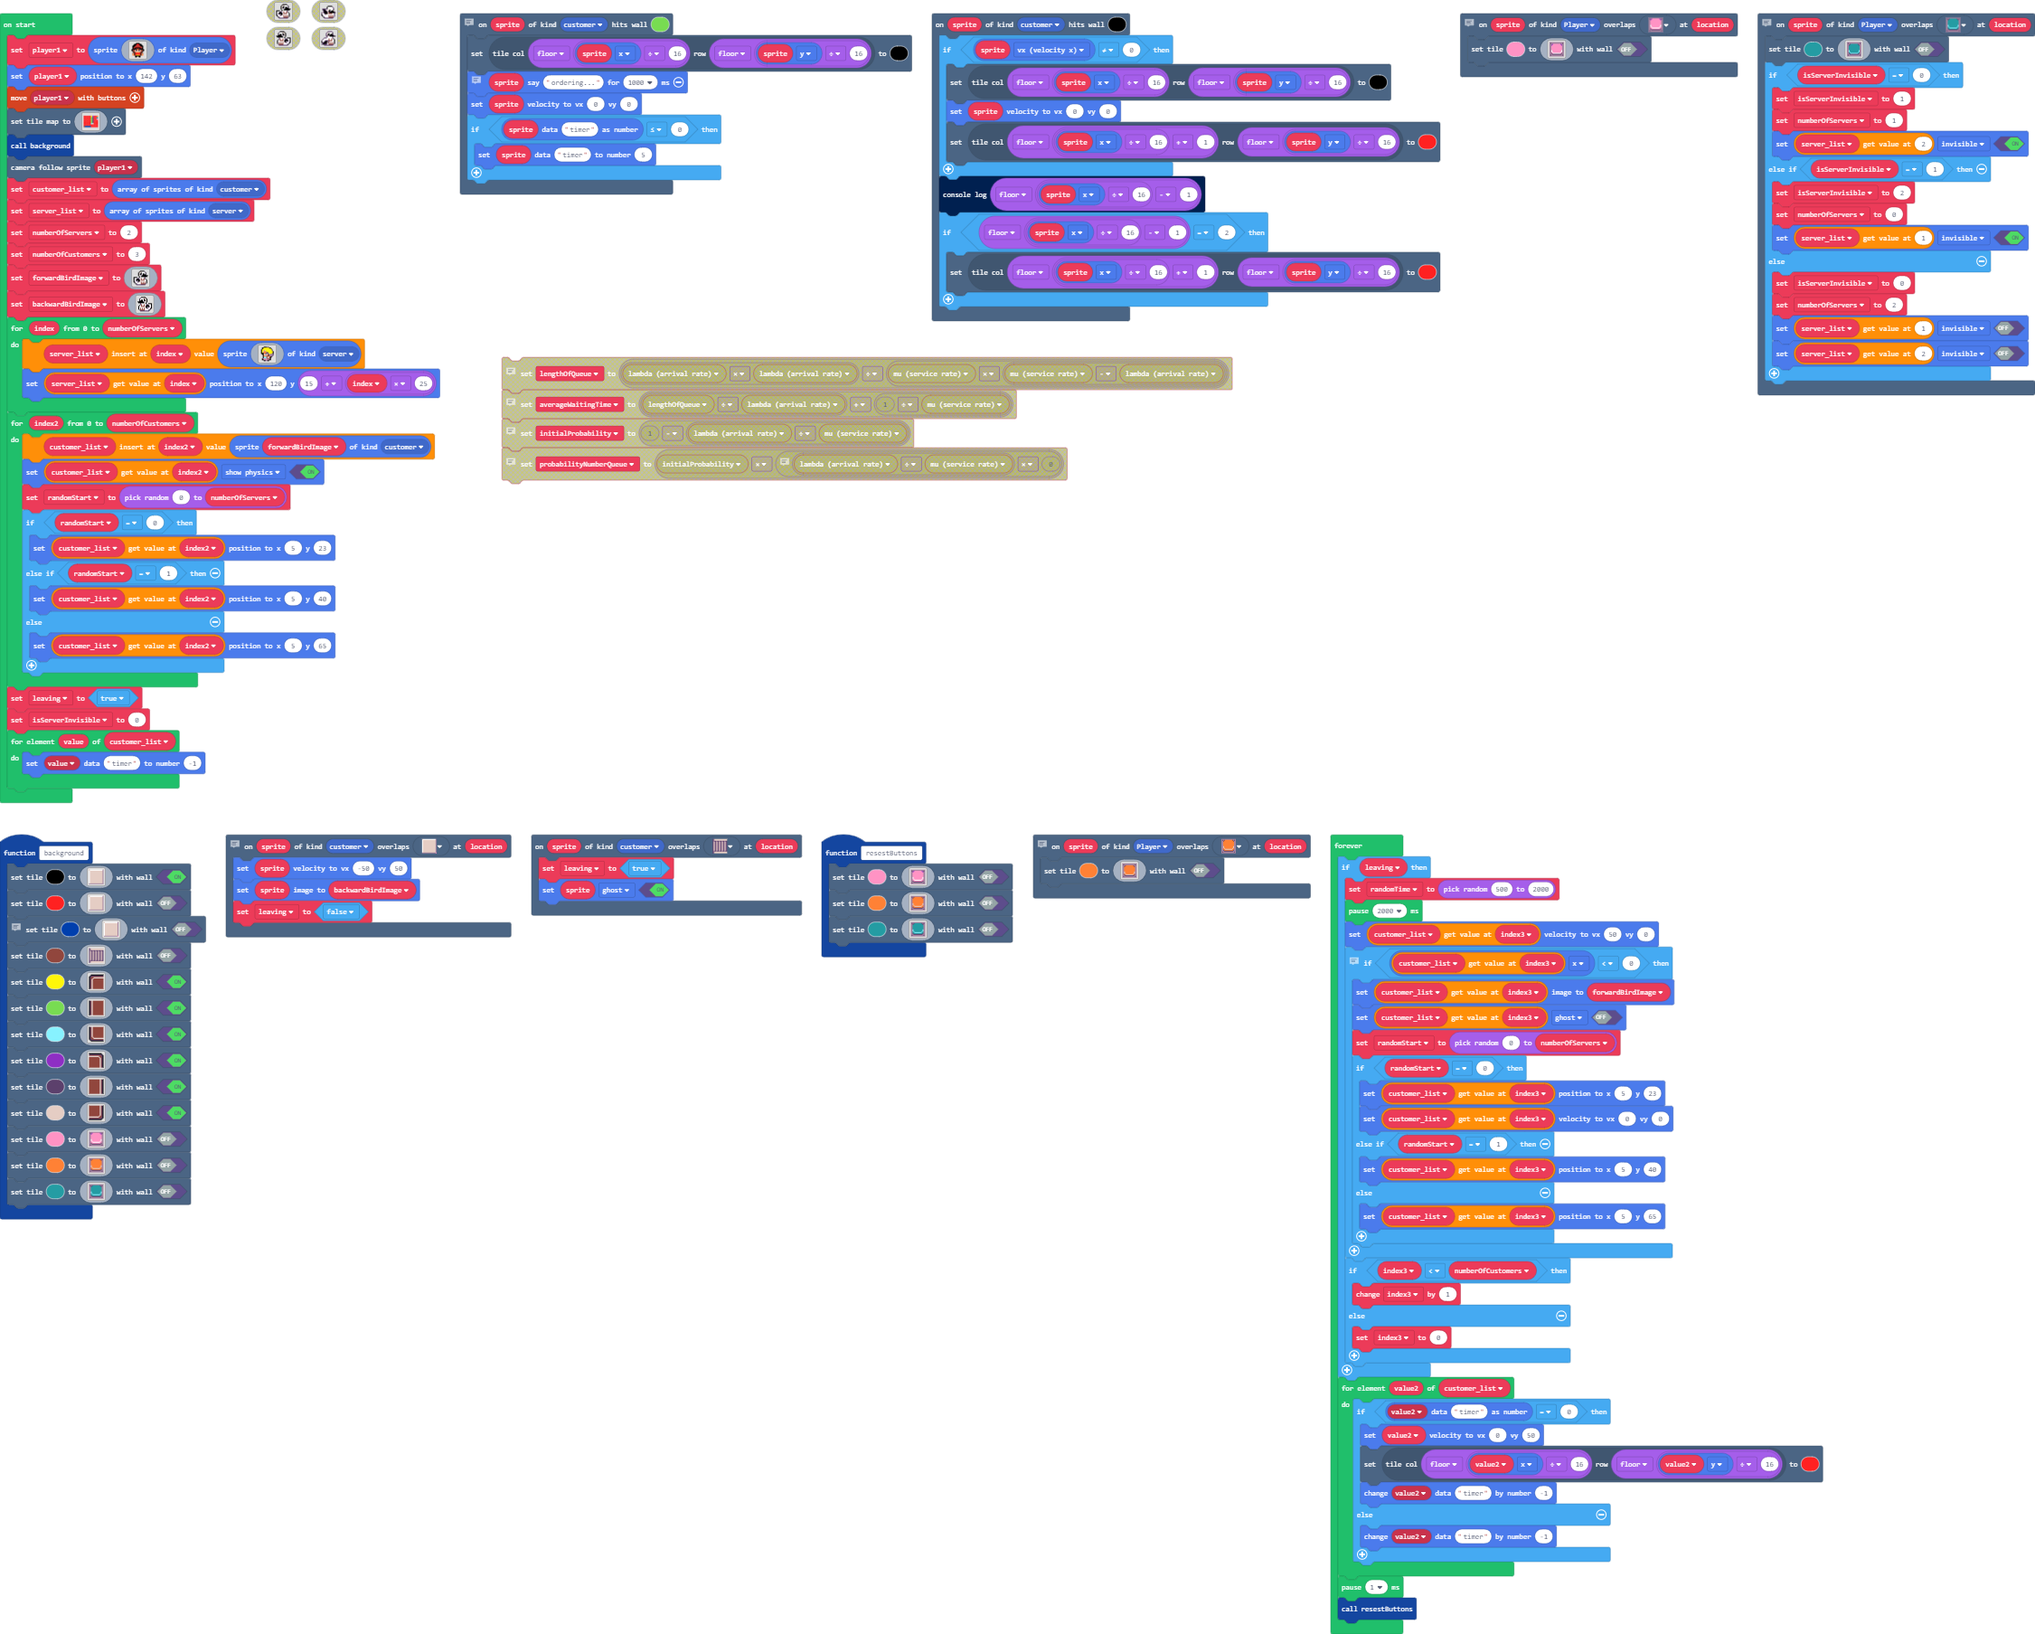
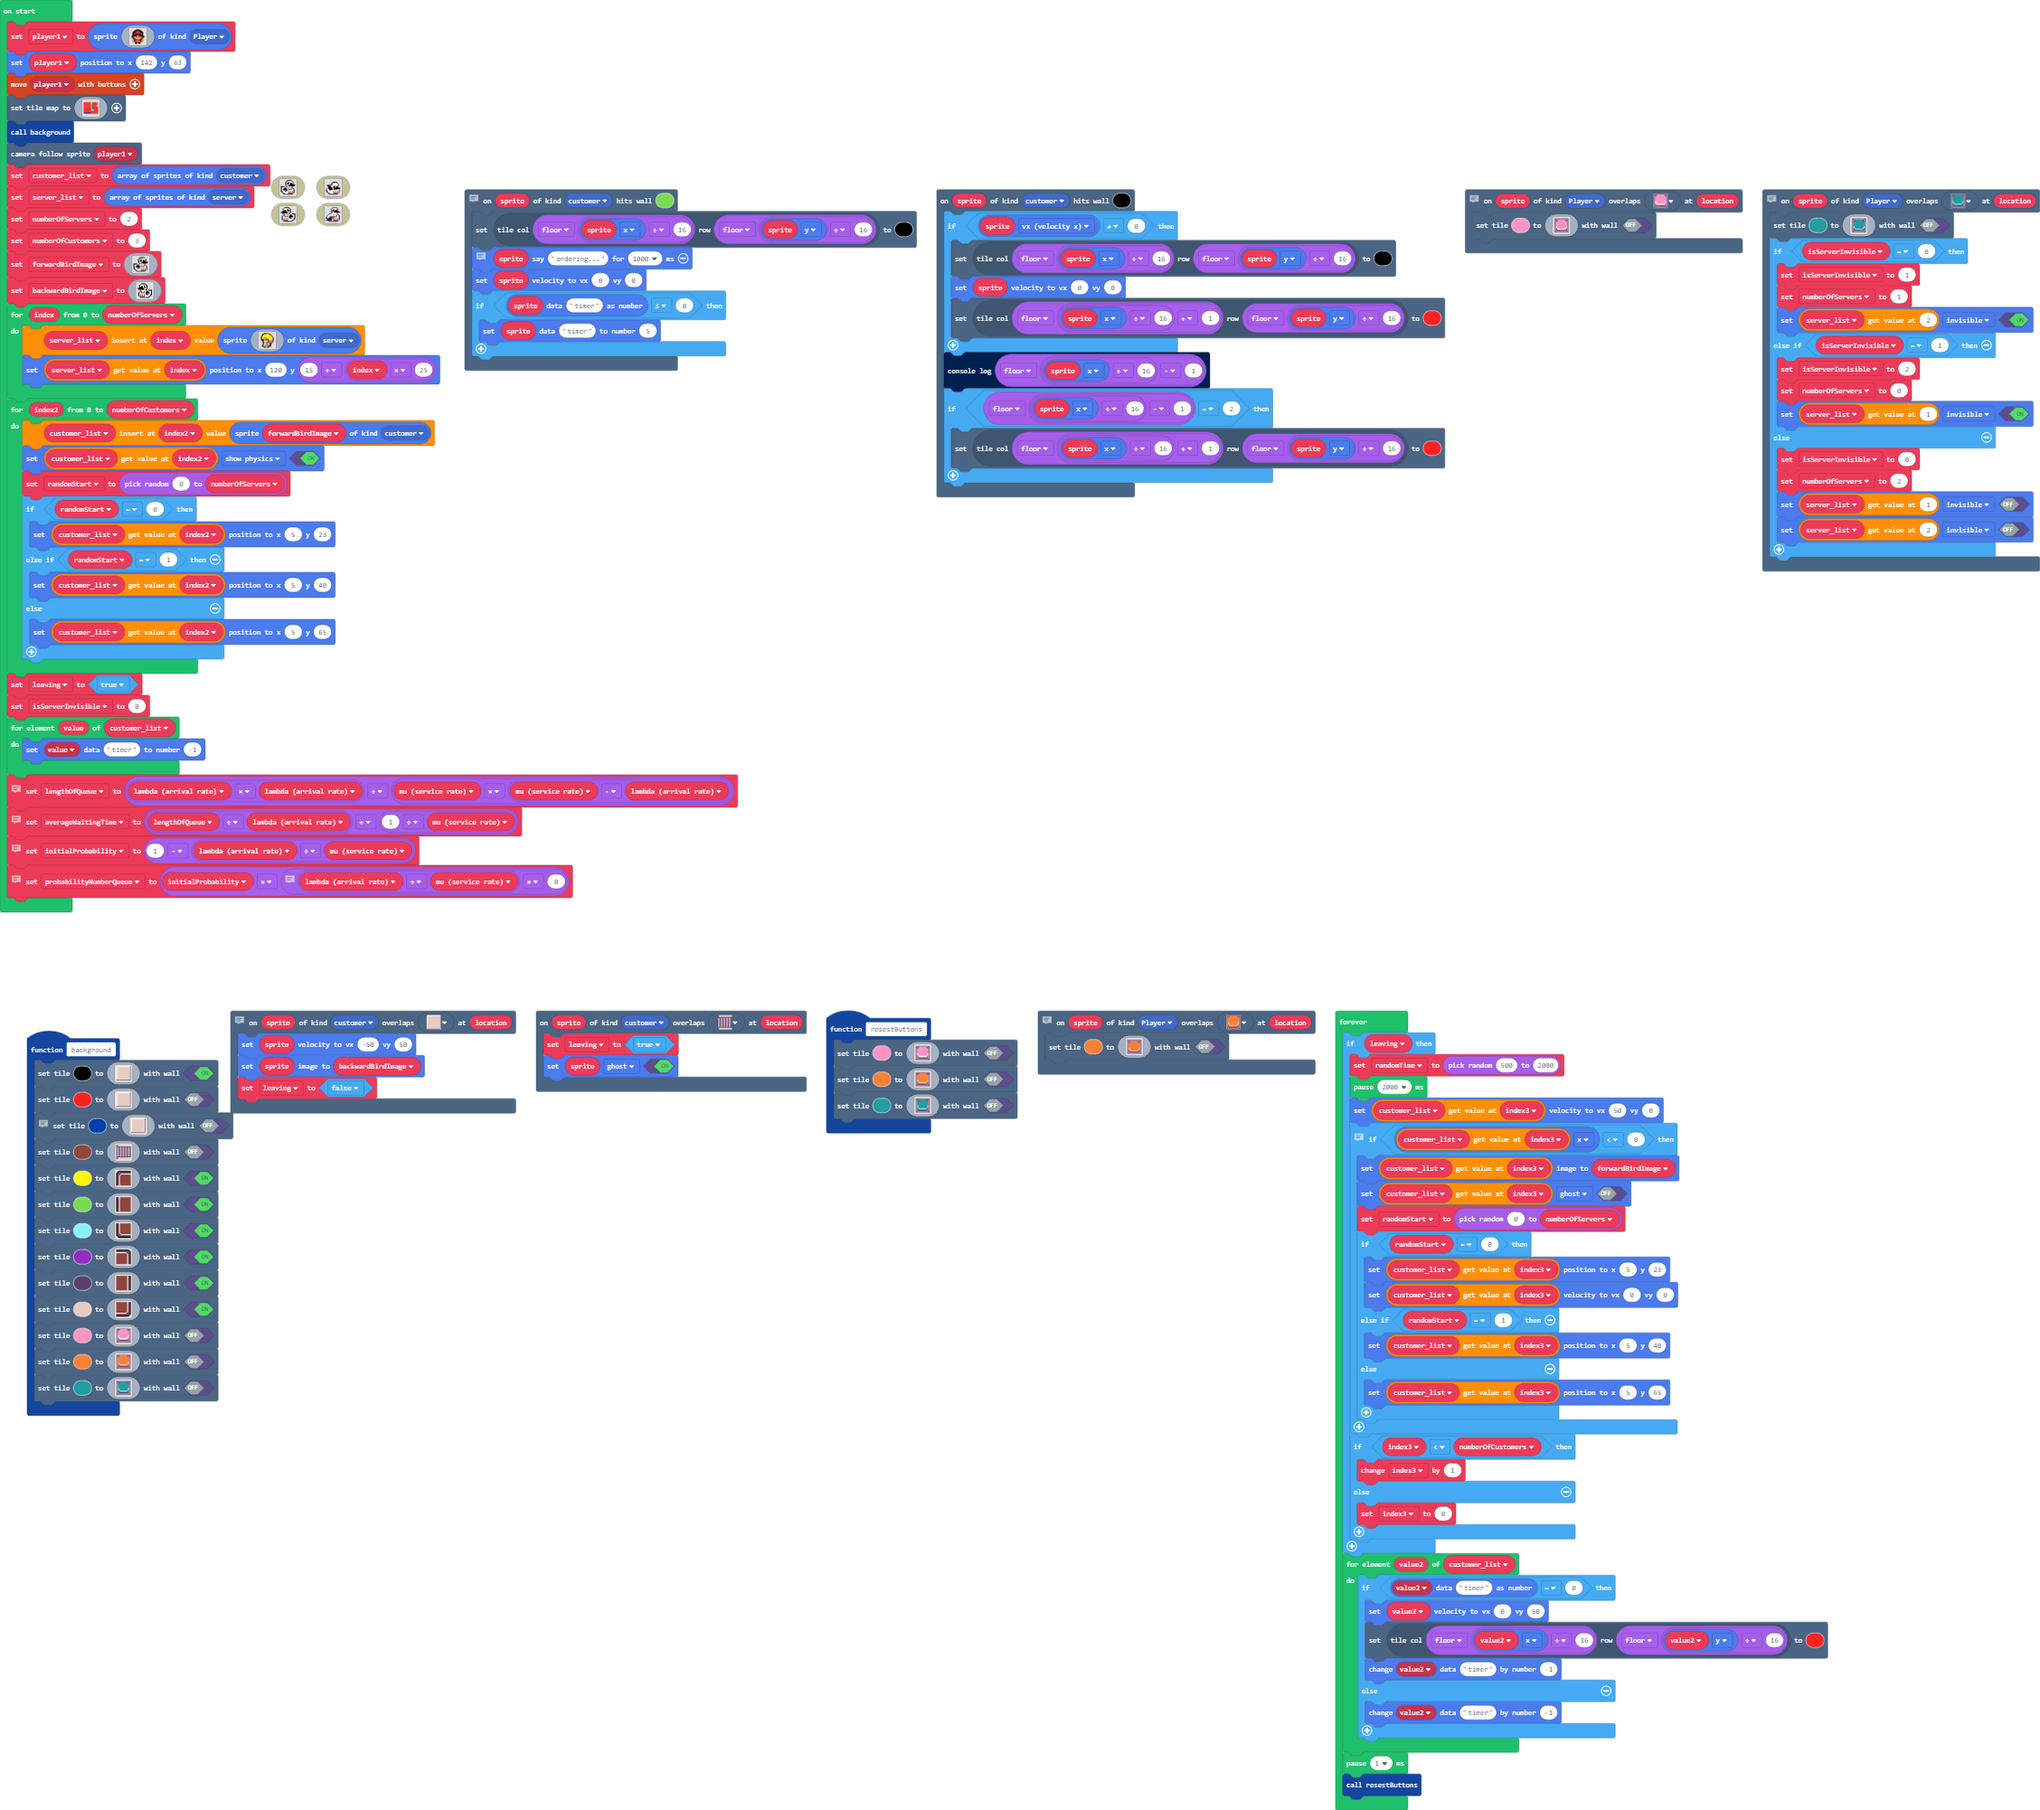
Update main.blocks, main.ts

diff --git a/main.ts b/main.ts
@@ -657,6 +657,8 @@ b b b b b b b b b b b b b b b b
 })
 let index3 = 0
 let randomTime = 0
+let mu_service_rate = 0
+let lambda_arrival_rate = 0
 let isServerInvisible = 0
 let leaving = false
 let randomStart = 0
@@ -773,6 +775,16 @@ isServerInvisible = 0
 for (let value of customer_list) {
     sprites.setDataNumber(value, "timer", -1)
 }
+// slide 12
+let lengthOfQueue = lambda_arrival_rate * lambda_arrival_rate / (mu_service_rate * (mu_service_rate - lambda_arrival_rate))
+// slide 13
+let averageWaitingTime = lengthOfQueue / lambda_arrival_rate + 1 / mu_service_rate
+// slide 14
+let initialProbability = 1 - lambda_arrival_rate / mu_service_rate
+// slide 15
+//
+// it's supposed to be to the power of 'n'
+let probabilityNumberQueue = initialProbability * (lambda_arrival_rate / mu_service_rate * 0)
 forever(function () {
     if (leaving) {
         randomTime = Math.randomRange(500, 2000)
